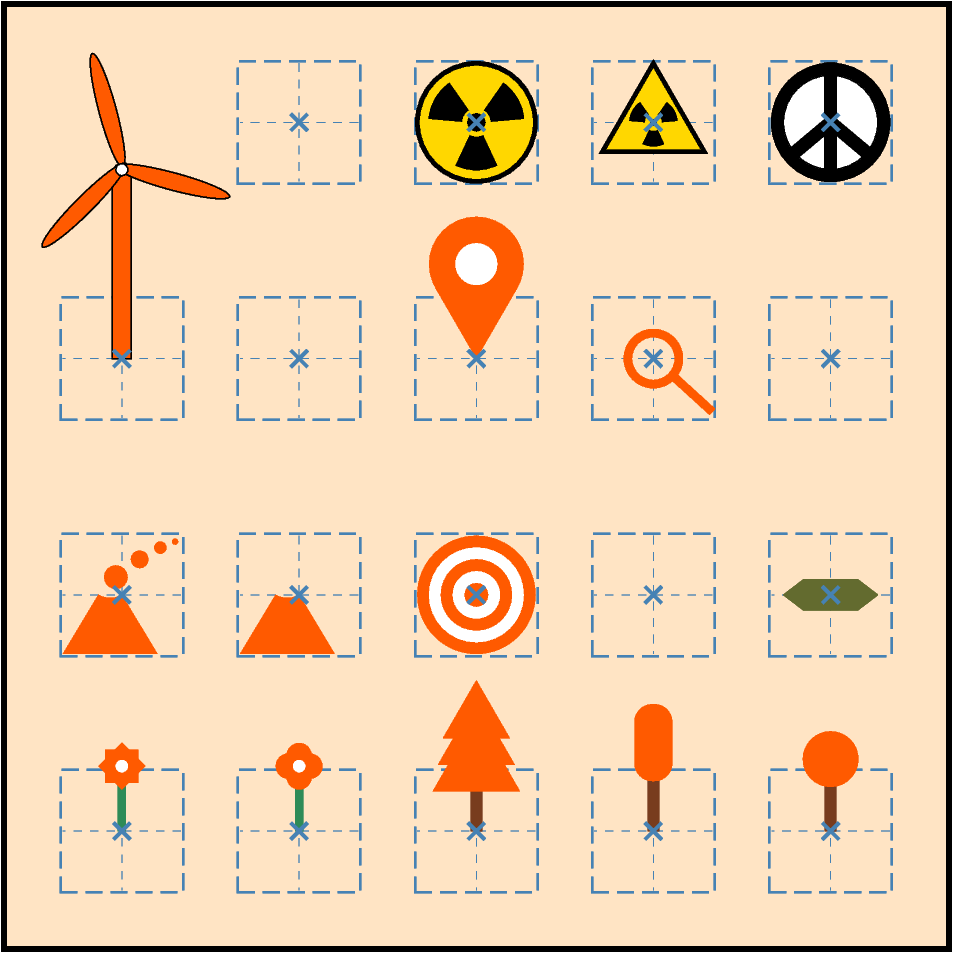
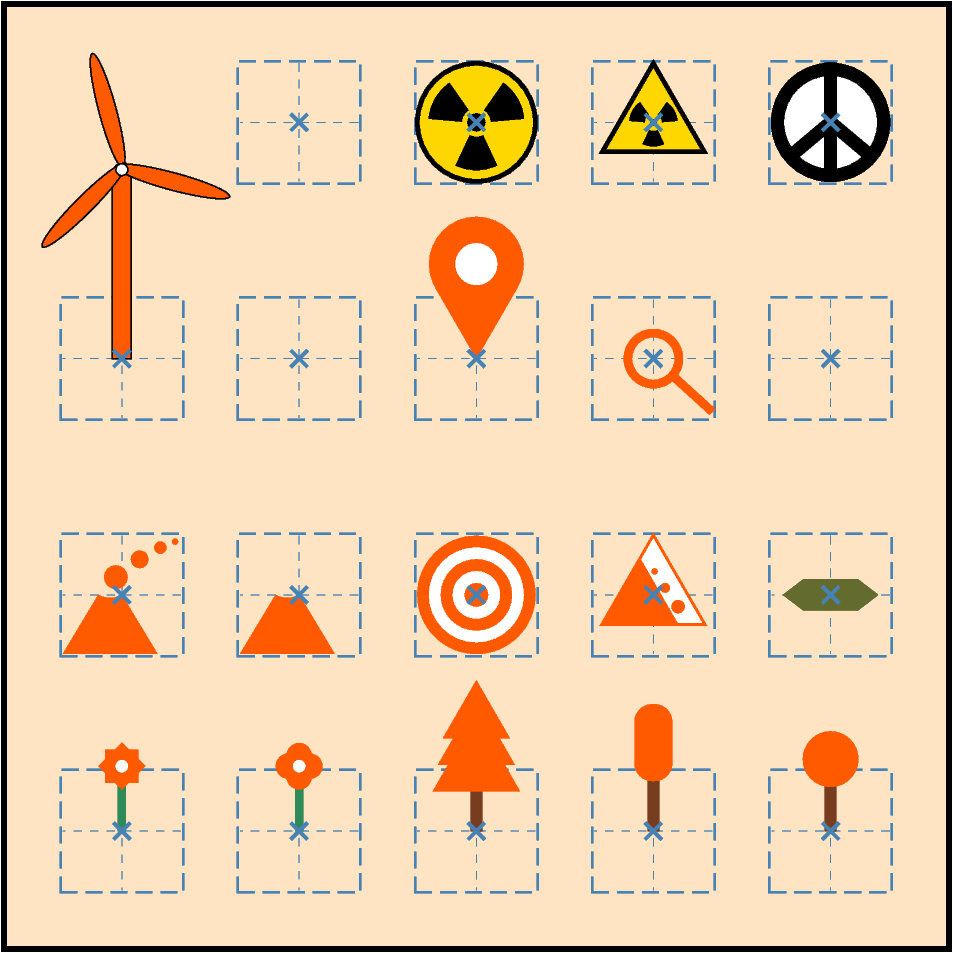
000_general_stuff/01_custom_symbols: Add landslide symbol (#201)

Changed region(s): [[0.6086, 0.5477, 0.7608, 0.6695]]

diff --git a/000_general_stuff/01_custom_symbols/custom_symbols.py b/000_general_stuff/01_custom_symbols/custom_symbols.py
@@ -15,6 +15,7 @@
 # - Updated: 2025/08/13 - Add symbol for lens
 # - Updated: 2026/05/10 - Add symbol for olivine crystal, improve symbol for lens
 # - Updated: 2026/08/29 - Re-organize example plot, improve some symbols
+# - Updated: 2026/08/29 - Add landslide symbol
 # -----------------------------------------------------------------------------
 # Versions
 # - PyGMT v0.18.0 -> https://www.pygmt.org
@@ -54,6 +55,7 @@ fig.plot(x=3, y=2, style="klens_yf.def/1c", pen=f"2p,{color_hl}")
 fig.plot(x=-6, y=-2, style="kvolcano/1c", fill=color_hl)  # not self-created
 fig.plot(x=-3, y=-2, style="kvolcano_sleeping.def/1c", fill=color_hl)  # not self-created
 fig.plot(x=-0, y=-2, style="kearthquake_yf.def/1c", fill=color_hl)
+fig.plot(x=3, y=-2, style="klandslide_yf.def/1c", fill=color_hl)
 fig.plot(x=6, y=-2, style="kolivine_crystal_yf.def/1c")
 
 fig.plot(x=-6, y=-6, style="kflower_square_yf.def/1c", fill=color_hl)
